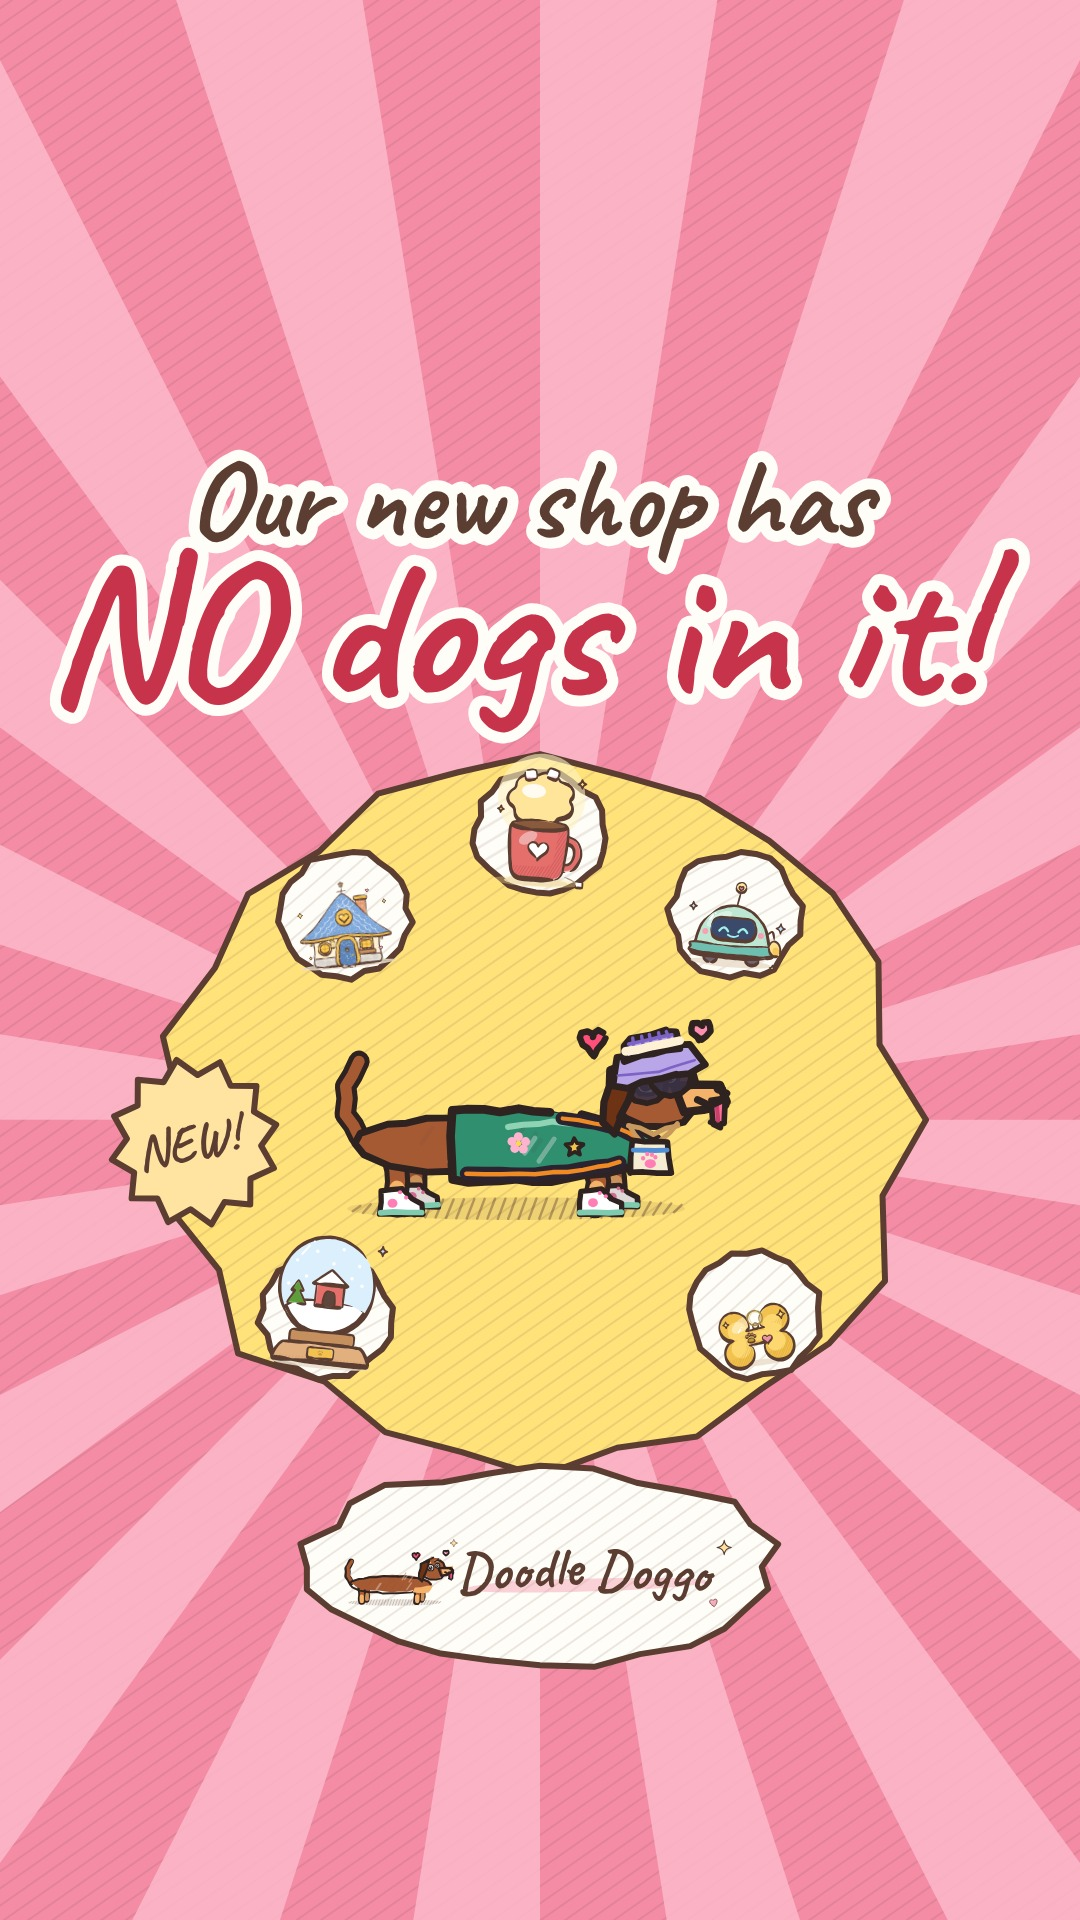
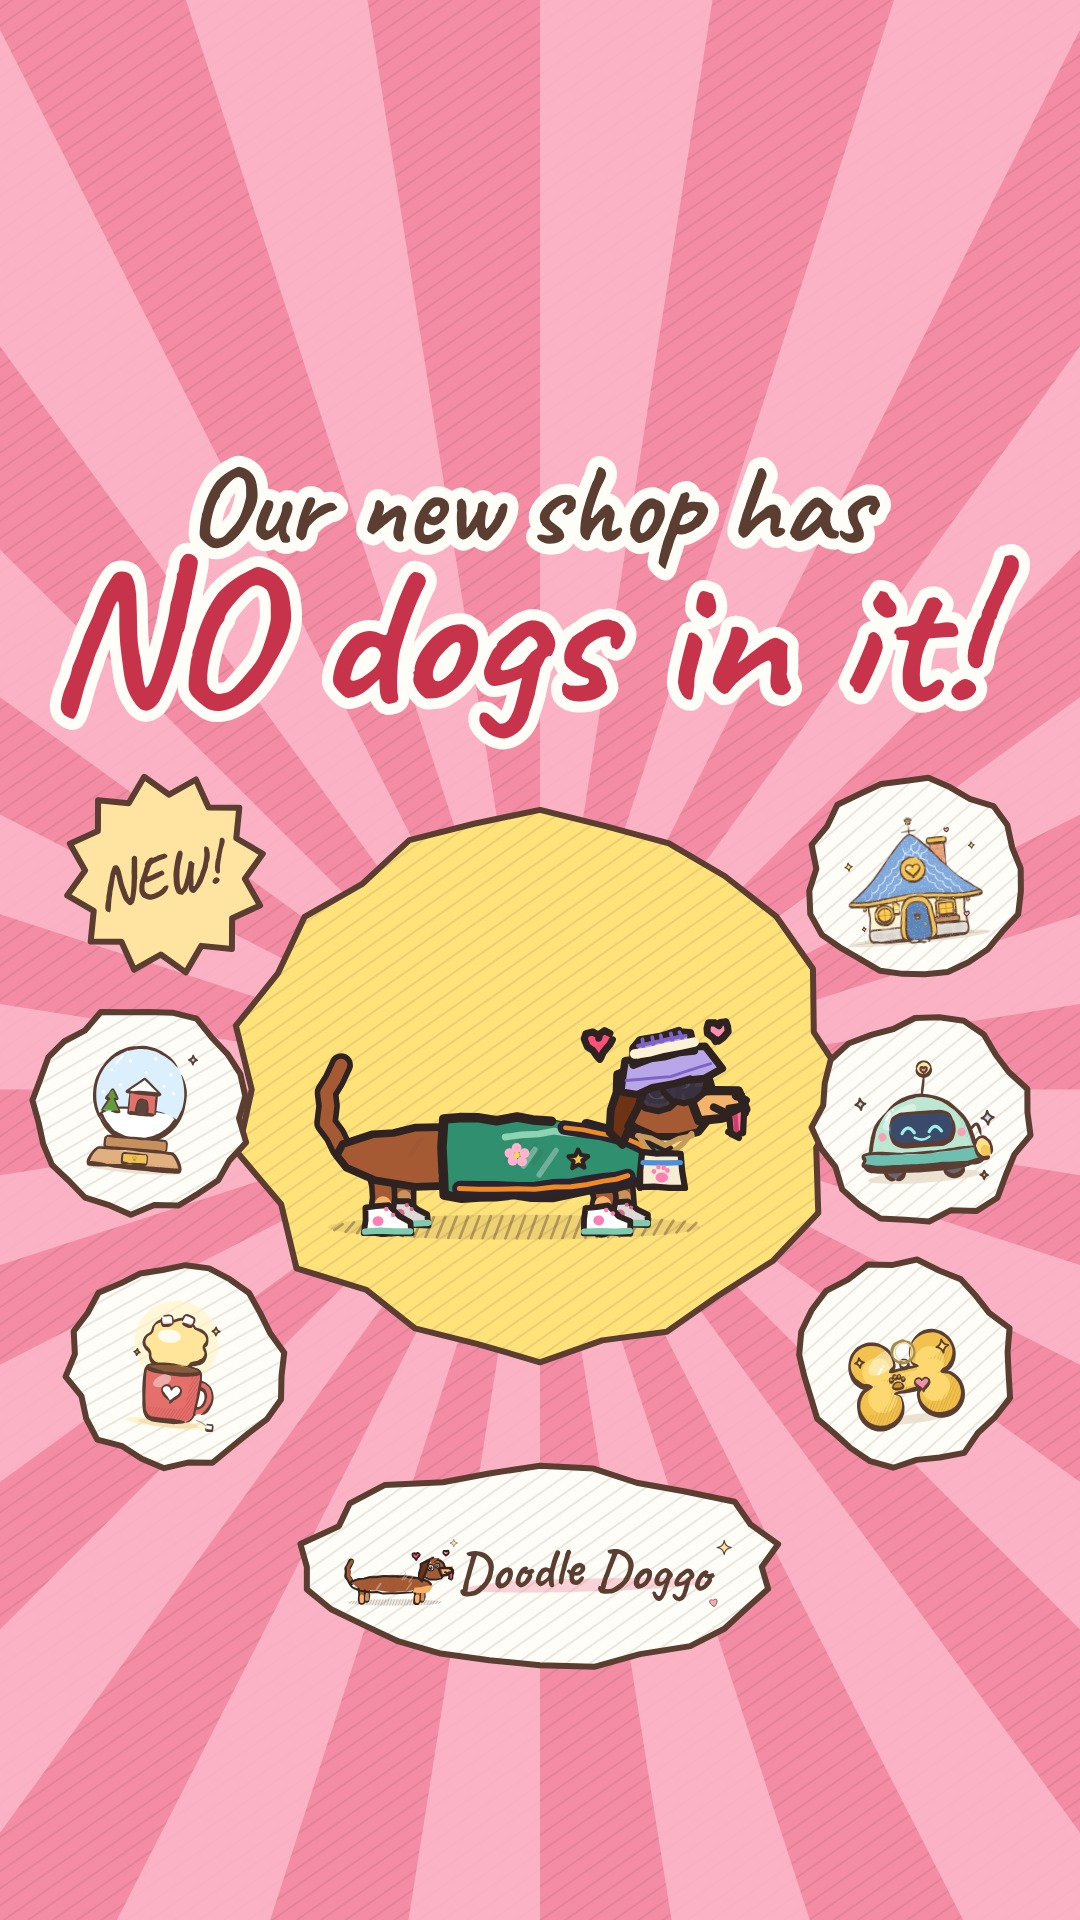
Kind shop covers: back to the earlier layout; each item now sits wholly inside its own white bubble (owner)
Claude-Session: https://claude.ai/code/session_01D6KLY4Gxx78VuyjbRFaSgb

diff --git a/brand/instagram/launch/shop_reel/build_shop.js b/brand/instagram/launch/shop_reel/build_shop.js
@@ -286,18 +286,17 @@ function starburst(cx,cy,r,s,size,rot){ let d=''; for(let i=0;i<24;i++){ const a
   return '<g transform="rotate('+rot+' '+cx+' '+cy+')"><g data-box><circle cx="'+cx+'" cy="'+cy+'" r="'+r+'" fill="none" stroke="none"/><path d="'+d+'" fill="${YEL}" stroke="${PEN}" stroke-width="6" stroke-linejoin="round"/>'+centred([{s,size:fitS(s,size,r*1.35),fill:'${PEN}'}],cx,cy,F).svg+'</g></g>'; }
 function bigText(lines,cx,cy){ const c=centred(lines,cx,cy,F).svg; return '<g stroke="${CREAM}" stroke-width="22" stroke-linejoin="round" stroke-linecap="round">'+c.replace(/fill="[^"]*"/g,'fill="${CREAM}"')+'</g>'+c; }
 window.cover=function(){ const Y0=RN?240:420, Y1=RN?1680:1500, h=Y1-Y0, cx=540;
-  const ncy=Y0+h*(RN?0.585:0.648); let bg='<rect width="${W}" height="${H}" fill="#F48CA6"/><rect width="${W}" height="${H}" fill="url(#hatch)"/>', art='', ov='';
+  const ncy=Y0+h*(RN?0.585:0.62); let bg='<rect width="${W}" height="${H}" fill="#F48CA6"/><rect width="${W}" height="${H}" fill="url(#hatch)"/>', art='', ov='';
   let rays=''; for(let i=0;i<20;i++){ const a0=i/20*2*Math.PI, a1=a0+Math.PI/20; rays+='M'+cx+' '+f2(ncy)+'L'+f2(cx+Math.cos(a0)*1700)+' '+f2(ncy+Math.sin(a0)*1700)+'L'+f2(cx+Math.cos(a1)*1700)+' '+f2(ncy+Math.sin(a1)*1700)+'Z'; }
-  const BR=RN?420:372; // owner, 10 Nov 2026: Noodle and every item sit inside the yellow bubble
-  bg+='<path d="'+rays+'" fill="#FBB9C9" opacity=".85"/>'+sticker(cx,ncy,BR,'#FFE27A',31,0.97);
+  bg+='<path d="'+rays+'" fill="#FBB9C9" opacity=".85"/>'+sticker(cx,ncy,RN?320:300,'#FFE27A',31,0.92);
   // the shop's own pictures around Noodle, each on a white sticker
-  const k=BR/390, SR=70*k; // item stickers in a ring inside the bubble, clear of Noodle in the middle
-  const ring=[['lampLit',cx,ncy-300*k,4],['Golden Paw Cottage',cx-205*k,ncy-215*k,-6],['Robo Scoop',cx+205*k,ncy-215*k,5],['Doggy Snow Globe',cx-225*k,ncy+205*k,6],['Golden Name Tag',cx+225*k,ncy+205*k,-7]];
-  ring.forEach(([id,x,y,r],i)=>{ art+='<g transform="rotate('+r+' '+f2(x)+' '+f2(y)+')">'+sticker(x,y,SR,'${CREAM}',50+i,0.95)+place(id,x,y+SR*0.8,SR*1.62,SR*1.48,1.35,0)+'</g>'; });
-  art+=place('dressHappy',cx-(RN?0:4),ncy+105*k,400*k,330*k,1,0,{apart:'noodle'});
-  art+=RN?starburst(cx-BR*0.86,ncy-BR*0.78,92,TX.coverTag,60,-12):starburst(cx-BR*0.93,ncy+BR*0.06,84,TX.coverTag,52,-12);
+  const dy=RN?1.18:1;
+  const ring=[['Golden Paw Cottage',915,ncy-(RN?295:210),-6],['Doggy Snow Globe',140,ncy+20*dy,5],['Robo Scoop',RN?928:922,ncy+30*dy,-4],['lampLit',175,ncy+(RN?340:275),6],['Golden Name Tag',905,ncy+(RN?340:275),-7]];
+  ring.forEach(([id,x,y,r],i)=>{ art+='<g transform="rotate('+r+' '+f2(x)+' '+f2(y)+')">'+sticker(x,y,108,'${CREAM}',50+i,0.95)+place(id,x,y+64,138,128,({'Golden Paw Cottage':1.55,'Robo Scoop':1.5,'Golden Name Tag':1.6})[id]||1,0)+'</g>'; }); // owner, 10 Nov 2026: each item stays wholly inside its own white bubble
+  art+=place('dressHappy',cx-(RN?0:4),ncy+(RN?165:150),RN?450:420,RN?385:350,1,0,{apart:'noodle'}); // owner, 10 Nov 2026: Noodle (tail, hearts, sneakers) sits wholly inside the yellow bubble
+  art+=starburst(165,ncy-(RN?295:215),100,TX.coverTag,RN?64:60,-12);
   // the hook: two lines, the second one huge
-  const hy=Y0+(RN?190:176), l0=TX.cover[0], l1=TX.cover[1];
+  const hy=Y0+(RN?190:182), l0=TX.cover[0], l1=TX.cover[1];
   ov+=bigText([{s:l0,size:fitS(l0,RN?110:112,900),pitch:RN?150:158},{s:l1,size:fitS(l1,RN?170:210,960),fill:'#C7334B'}],cx,hy);
   const lw=RN?440:400, lh=lw*280/900, ly=RN?Y1-118:1567; ov+='<g>'+sticker(cx,ly,lw*0.6,'${CREAM}',77,RN?0.36:0.42)+'</g><svg data-safe x="'+f2(cx-lw/2)+'" y="'+f2(ly-lh/2)+'" width="'+lw+'" height="'+f2(lh)+'" viewBox="0 0 900 280">'+LOGO_INNER+'</svg>';
   $('bg').innerHTML=bg; $('art').innerHTML=art; $('ov').innerHTML=ov; $('foot').setAttribute('opacity',0);
